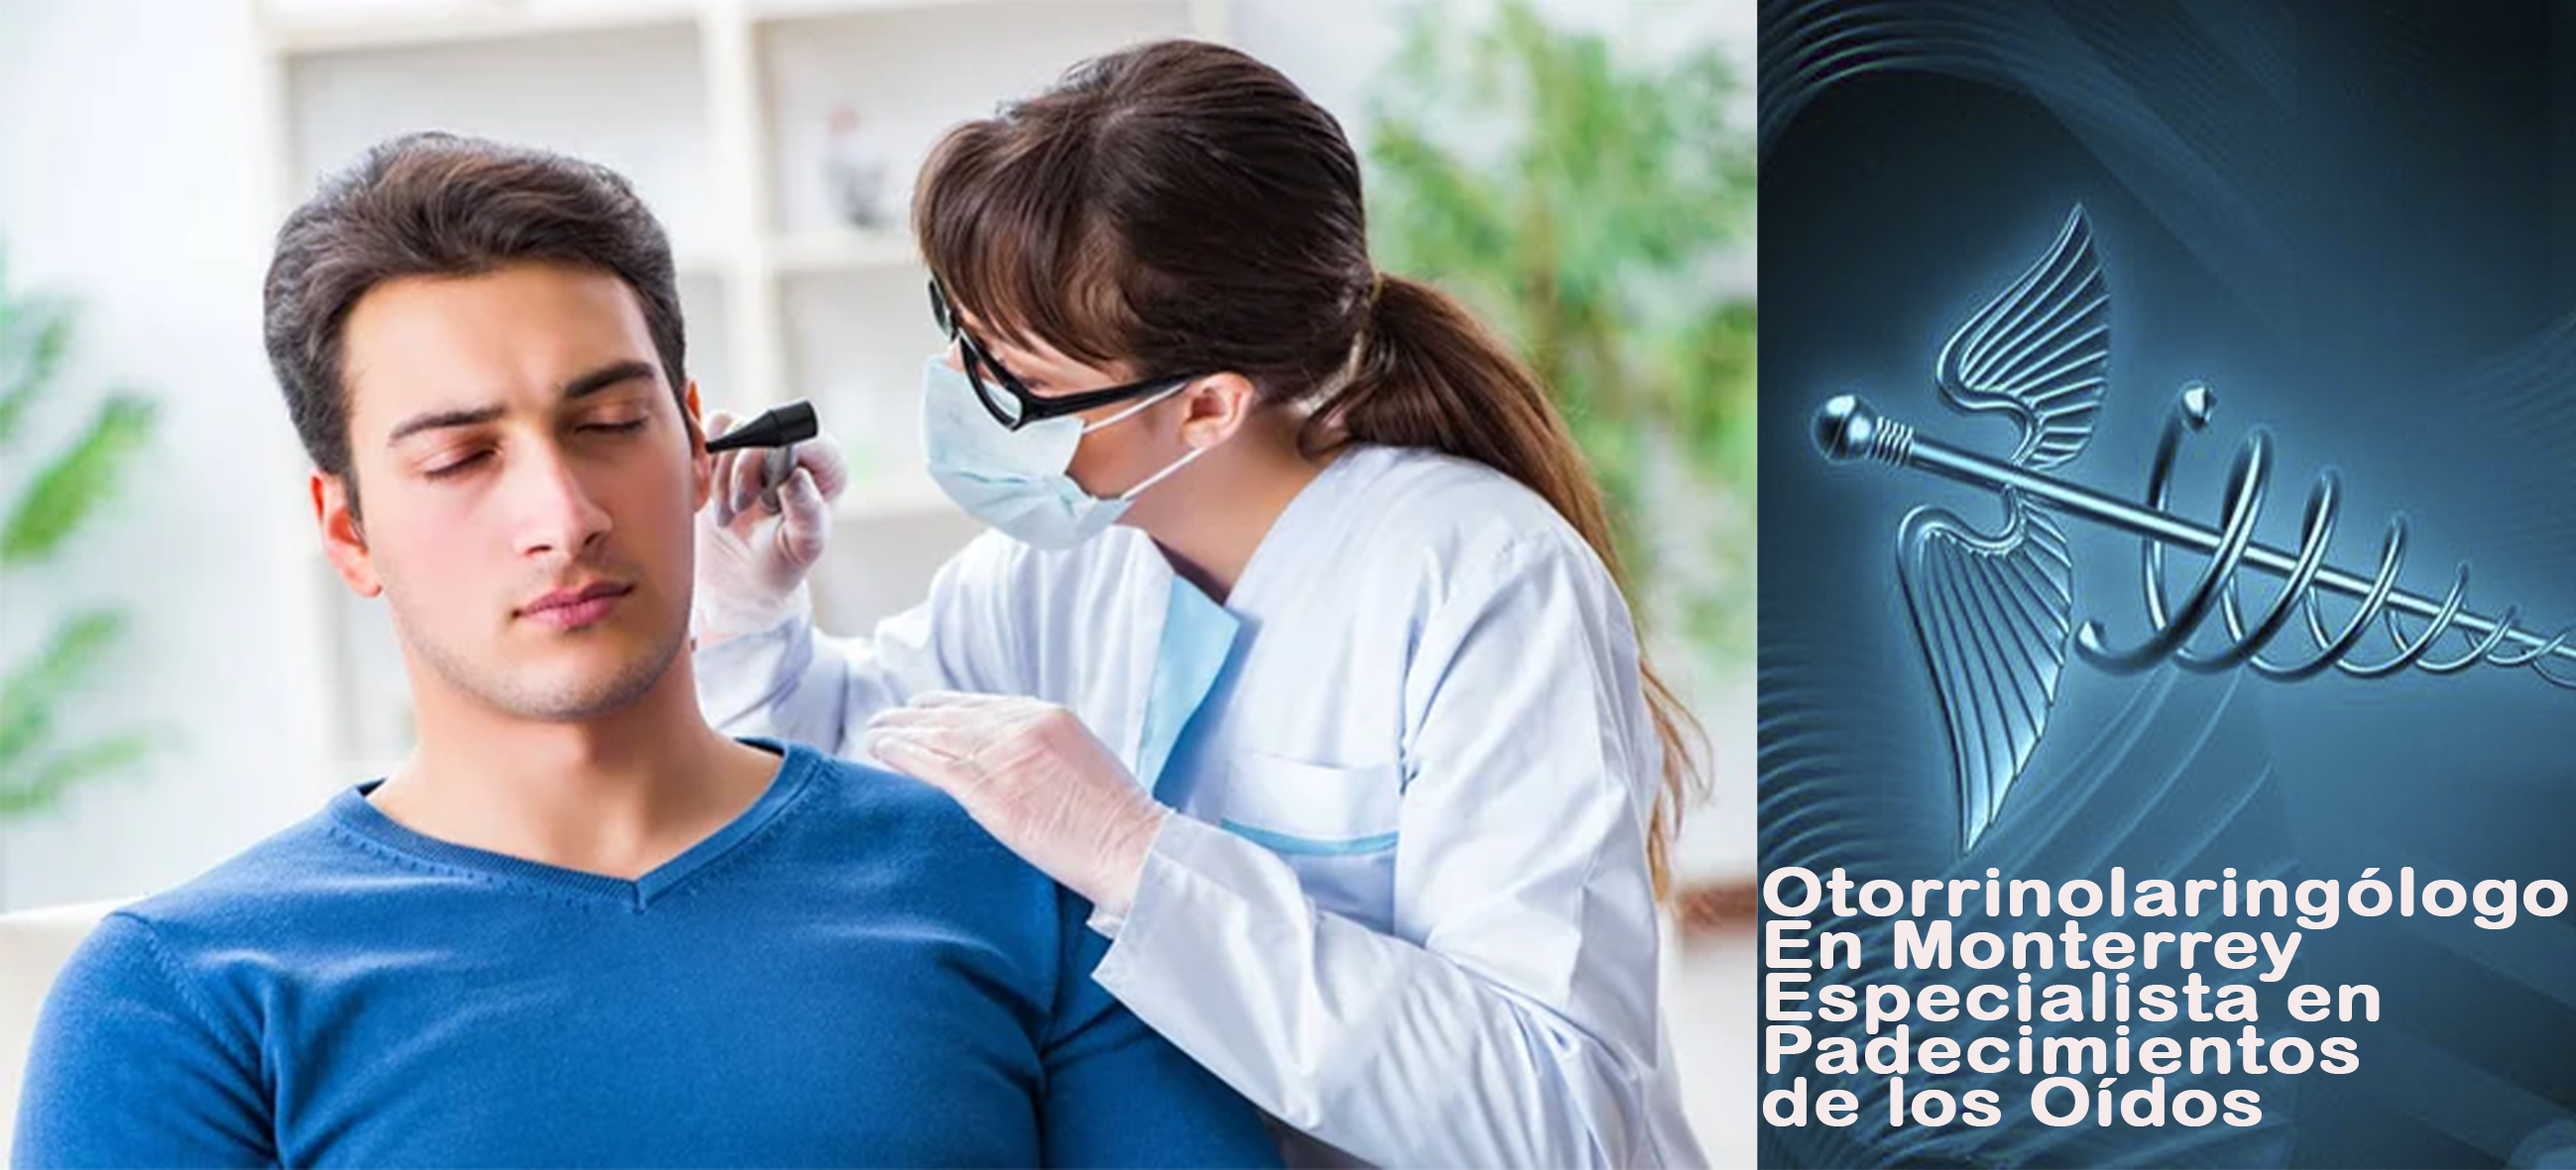
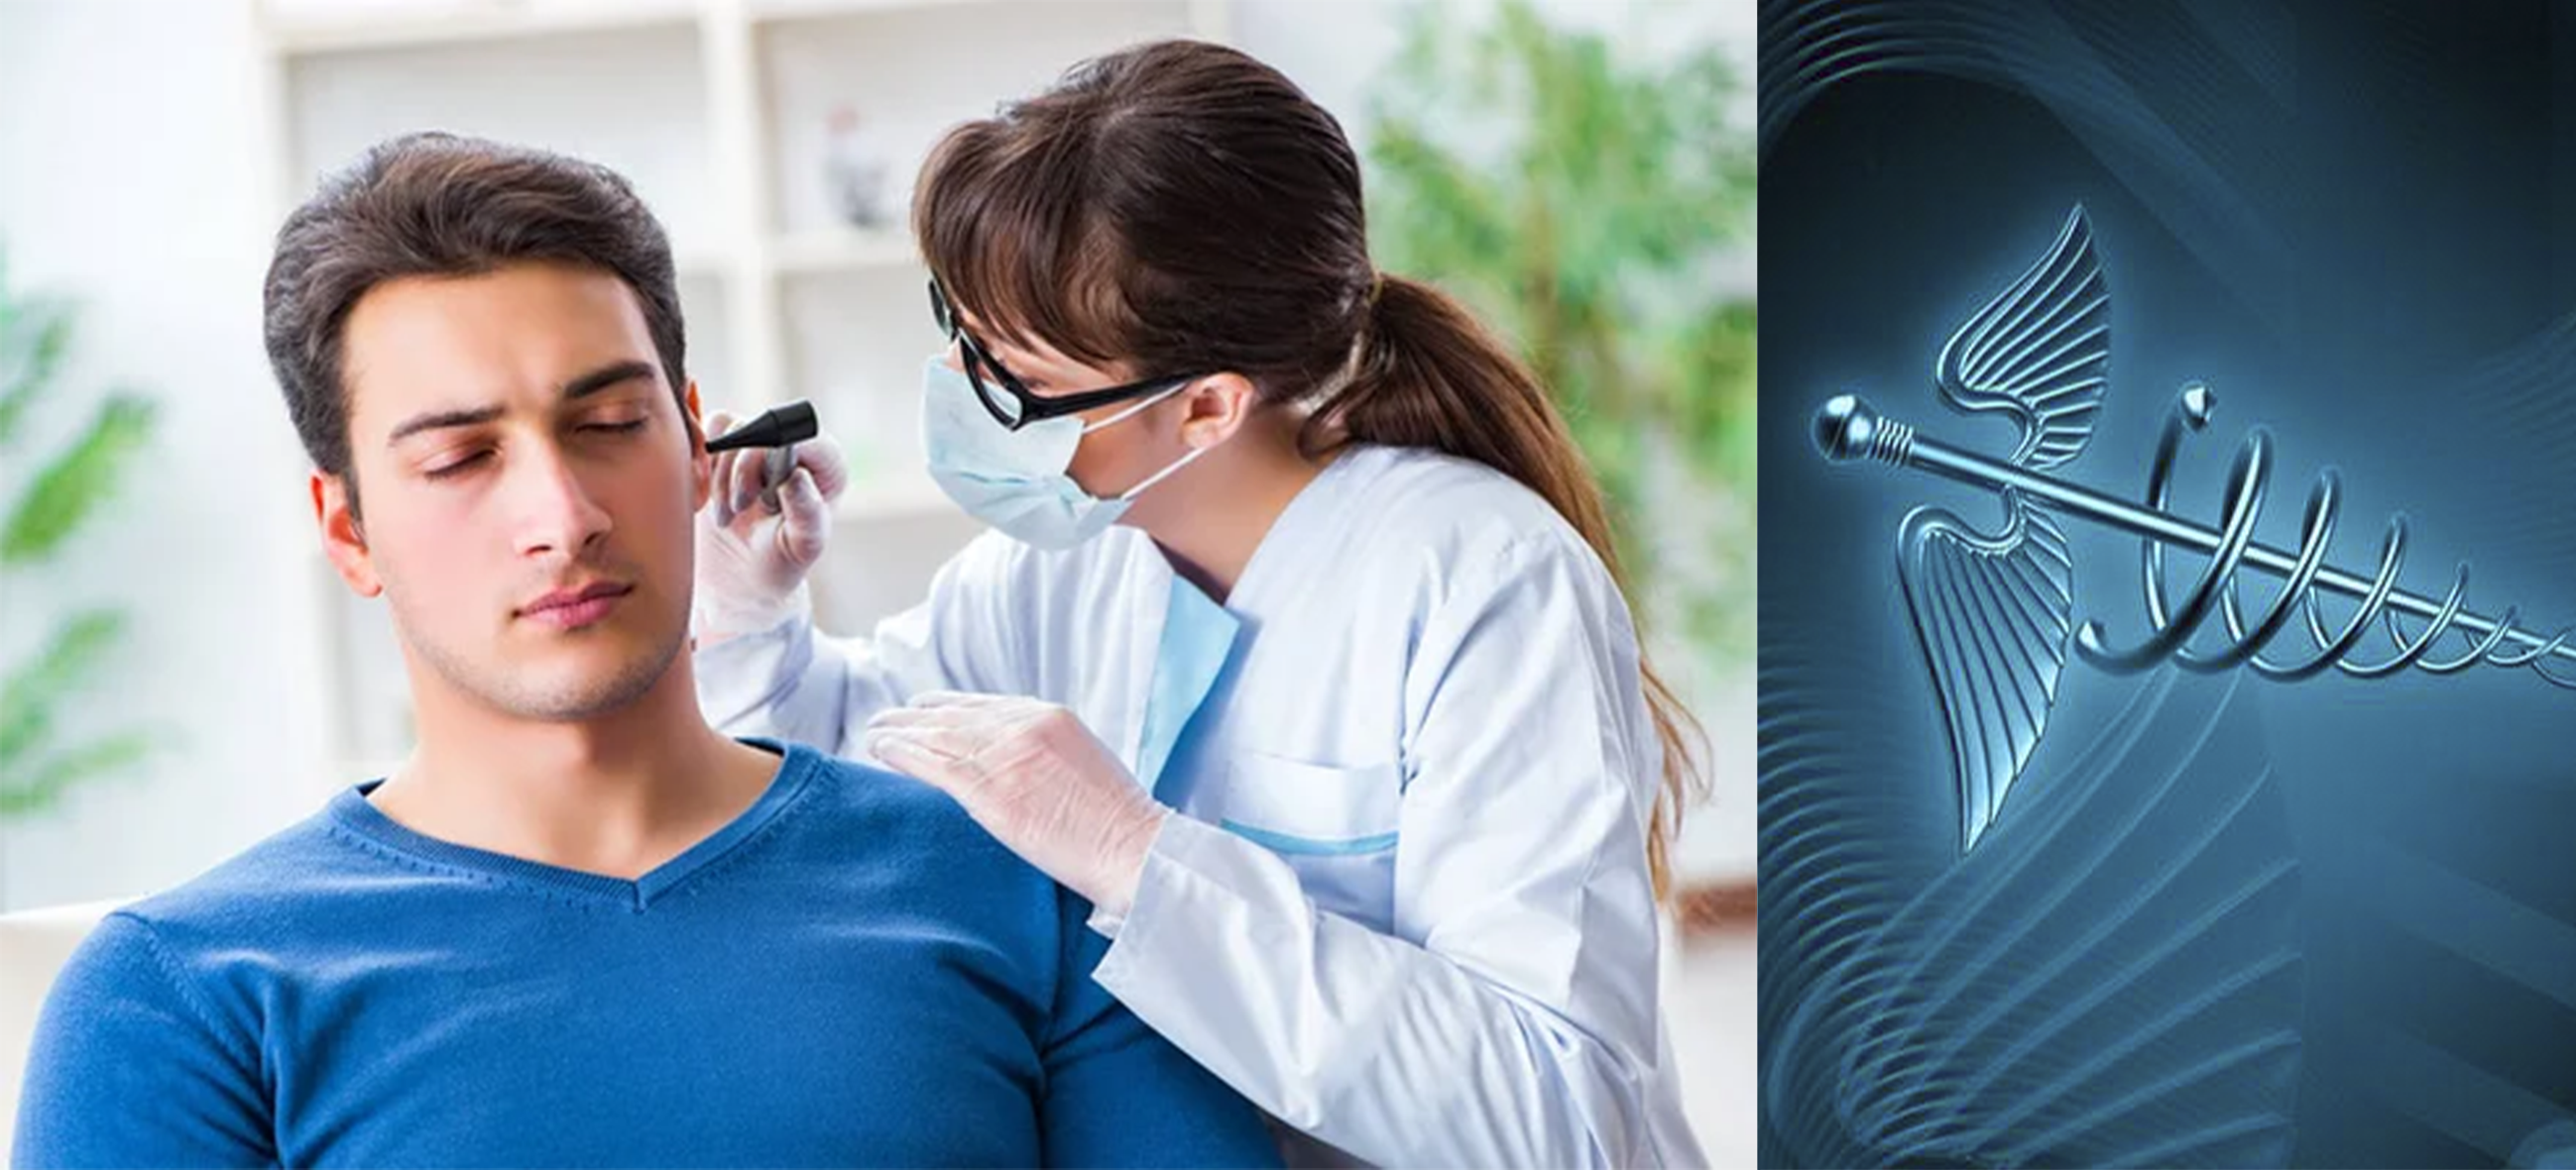
Cambios Responsive LandingPageTwo

Changed region(s): [[0.6859, 0.7316, 0.9977, 0.9754]]

diff --git a/style.css b/style.css
@@ -30,7 +30,7 @@ header {
   }
 
   .carousel-item{
-    min-height: 620px;
+    min-height: 615px;
     background-size: cover;
   }
 
@@ -86,7 +86,7 @@ header {
 .carousel{
     background-size: cover;
     background-position: center center;
-    height: calc(100vh -80px);
+    height: calc(100vh -79px);
 }
 
 .header-right {
@@ -137,10 +137,24 @@ dl, ol, ul {
     font-size: 15px;
 }
 
-.about-img{
-   display: flex;
-   justify-content: 100px;
-   align-items: right;
+.carousel-inner h1{
+    font-size: 2rem;
+    color: white;
+    position: absolute;
+    top: 63%;
+    left: 54%;
+    transform: translate(50%, 50%);
+    text-shadow: 0 0 8px rgba(0, 0, 0, 0.623);
+}
+
+.carousel-item p{
+    font-size: 2rem;
+    color: white;
+    position: absolute;
+    top: 3%;
+    left: 55.4%;
+    transform: translate(50%, 50%);
+    text-shadow: 0 0 8px rgba(0, 0, 0, 0.623);
 }
 
 .img-doc{
@@ -159,12 +173,12 @@ dl, ol, ul {
     justify-content: space-evenly;
     width: 435px;
     height: 30px;
-    box-shadow: 0 0 6px rgba(20, 53, 238, 0.705);
+    box-shadow: 0 0 6px rgba(1, 2, 10, 0.705);
     cursor: pointer;
    
 }
 .contenedor-galeria{
-    padding: 16px;
+    padding: 10px;
     display: flex;
     flex-wrap: wrap;
     justify-content: space-evenly;
@@ -175,7 +189,7 @@ dl, ol, ul {
     width: 435px;
     display:flexbox;
     margin-bottom: 25px;
-    box-shadow: 0 0 6px rgba(0, 0, 0, 0.6);
+    box-shadow: 0 0 6px rgba(0, 0, 0, 0.623);
     cursor: pointer;
     height: 250px;
 }
@@ -379,9 +393,7 @@ a, a:hover {
 @media screen and (max-width: 400px){
 
     .logo-dark{
-       padding: 0;
-       height: 50px;
-       min-width: 140%;
+       max-width: 90%;
              
     }
 
@@ -407,6 +419,24 @@ a, a:hover {
         min-height: 320px;
         background-size: cover;
       }
+
+    .carousel-inner h1{
+        font-size: 1.5rem;
+        top: 80%;
+        left: 50%;
+        text-align: center;
+        transform: translate(-50%, -50%);
+        text-shadow: 0 0 8px rgba(0, 0, 0, 0.8);
+    }
+    
+    .carousel-item p{
+        font-size: 1rem;
+        top: 80%;
+        left: 50%;
+        text-align: center;
+        transform: translate(-50%, -50%);
+        text-shadow: 0 0 8px rgba(0, 0, 0, 0.8);
+    }
     .nav li a{
         padding: 45%;
         width: 100%;

diff --git a/index.html b/index.html
@@ -70,10 +70,10 @@
   <div id="carousel" class="carousel slide" data-bs-ride="carousel">
     <div class="carousel-inner">
       <div class="carousel-item active" style="background-image: url(imagenes/scroll1.png);">
-       
+      <h1 style="line-height: 90%"><strong>OTORRINOLARINGÓLOGO <br> EN MONTERREY <br> ESPECIALISTA EN <br> PADECIMIENTOS <br> DE LOS OíDOS</strong></h1>
       </div>
       <div class="carousel-item" style="background-image: url(imagenes/scroll2.png);">
-        
+        <p style="line-height: 90%" ><strong>ESPECIALISTA <br> EN RINOPLASTÍA <br> Y CIRUJIA DE NARIZ<br>LOGRA UNA APARENCIA<br> ESTÉTICAMENTE <br> NATURAL</strong></p>
       </div>
     </div>
     <button class="carousel-control-prev" type="button" data-bs-target="#carouselExampleInterval" data-bs-slide="prev">
